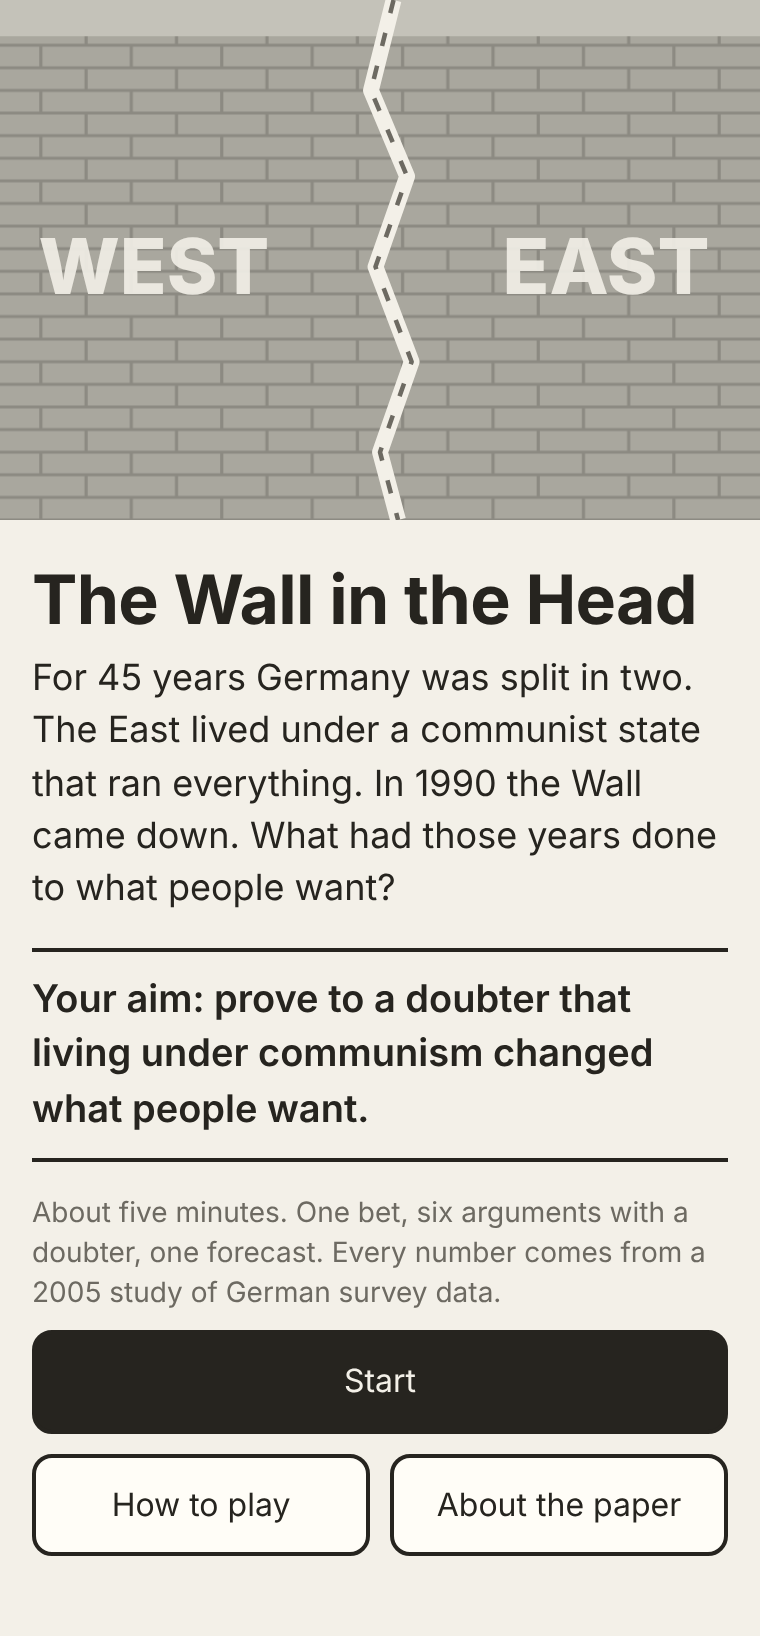
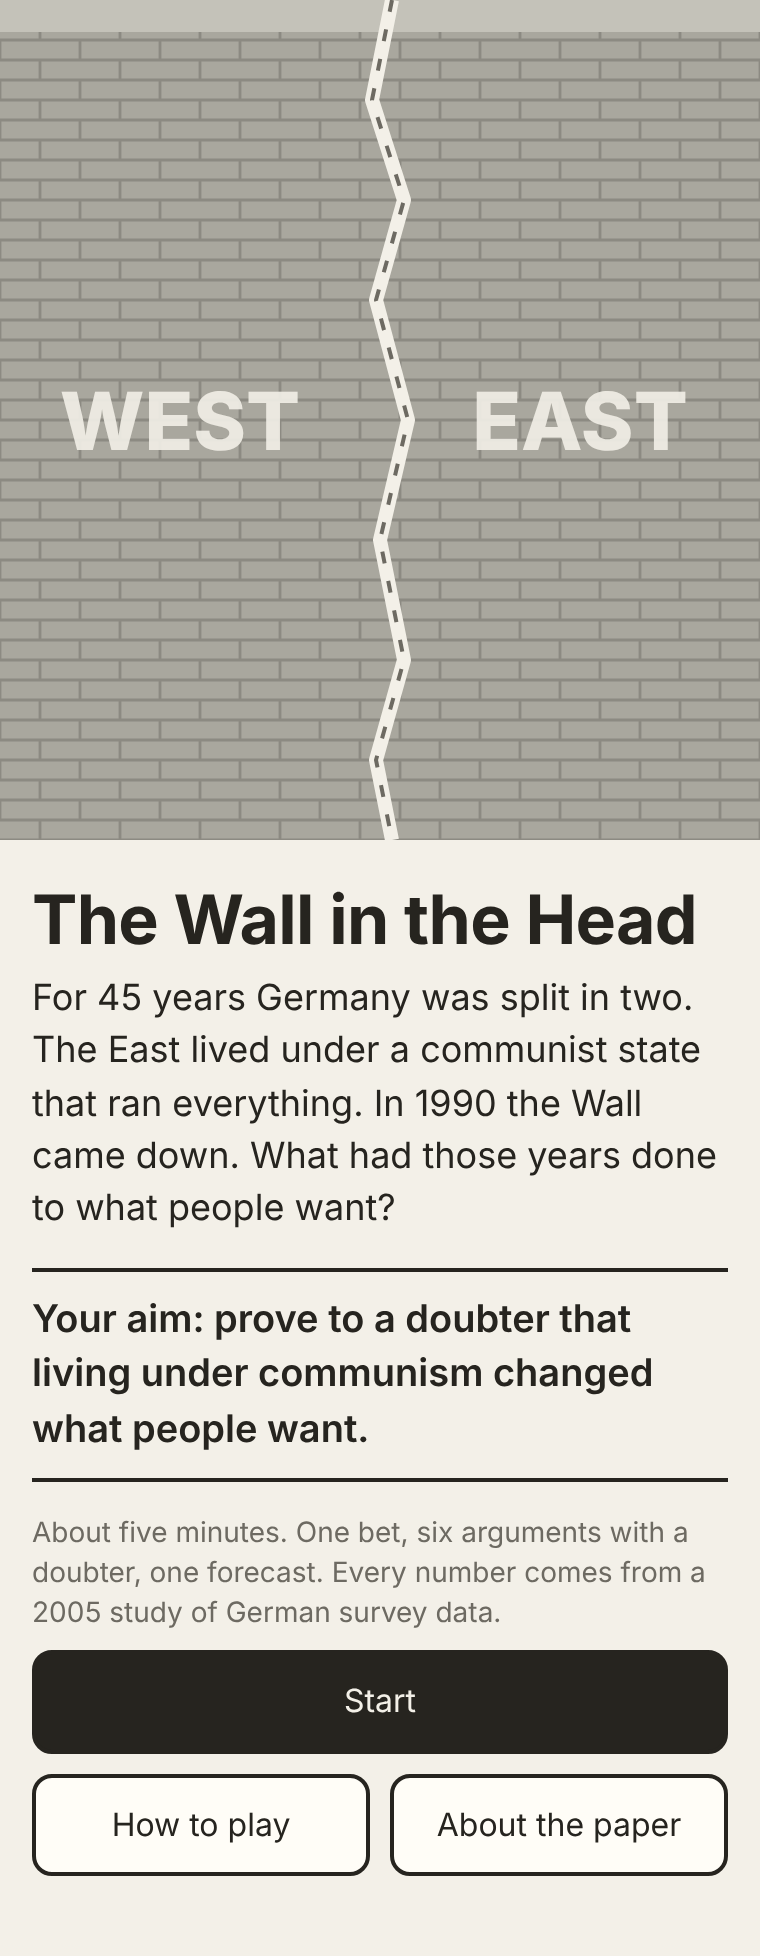
The Wall in the Head: taller start-screen wall
Claude-Session: https://claude.ai/code/session_018niUhvwvFNKjF7UTj7qTmS

diff --git a/lenin/template.html b/lenin/template.html
@@ -12,7 +12,7 @@
   .screen { display:none; max-width:560px; margin:0 auto; padding:0 16px 40px; }
   .screen.on { display:block; }
   .wall { display:block; width:100%; height:44px; margin:0 0 6px; }
-  .bigwall { display:block; width:calc(100% + 32px); margin:0 -16px; height:260px; }
+  .bigwall { display:block; width:calc(100% + 32px); margin:0 -16px; height:420px; }
   h1 { font-size:34px; line-height:1.1; margin:22px 0 6px; letter-spacing:-.01em; }
   h2 { font-size:13px; letter-spacing:.14em; text-transform:uppercase; color:var(--dim); margin:18px 0 6px; font-weight:600; }
   p { margin:8px 0; }
@@ -101,12 +101,12 @@
 
 <!-- START -->
 <section class="screen on" id="s-start">
-  <svg class="bigwall" viewBox="0 0 400 230" preserveAspectRatio="xMidYMid slice" aria-hidden="true">
-    <rect x="0" y="12" width="400" height="218" fill="url(#bricks)"/><rect x="0" y="0" width="400" height="16" rx="4" fill="#c4c2b9"/>
-    <path d="M206 0 L196 40 L212 78 L198 118 L214 160 L200 200 L208 230" stroke="#f3f0e8" stroke-width="7" fill="none" stroke-linejoin="round"/>
-    <path d="M206 0 L196 40 L212 78 L198 118 L214 160 L200 200 L208 230" stroke="#6d6a62" stroke-width="2" fill="none" stroke-linejoin="round" stroke-dasharray="6 9"/>
-    <text x="100" y="130" font-size="34" font-weight="800" fill="#f3f0e8" text-anchor="middle" opacity=".9">WEST</text>
-    <text x="300" y="130" font-size="34" font-weight="800" fill="#f3f0e8" text-anchor="middle" opacity=".9">EAST</text>
+  <svg class="bigwall" viewBox="0 0 400 420" preserveAspectRatio="xMidYMid slice" aria-hidden="true">
+    <rect x="0" y="12" width="400" height="408" fill="url(#bricks)"/><rect x="0" y="0" width="400" height="16" rx="4" fill="#c4c2b9"/>
+    <path d="M206 0 L196 50 L212 100 L198 150 L214 210 L200 270 L212 330 L198 380 L206 420" stroke="#f3f0e8" stroke-width="7" fill="none" stroke-linejoin="round"/>
+    <path d="M206 0 L196 50 L212 100 L198 150 L214 210 L200 270 L212 330 L198 380 L206 420" stroke="#6d6a62" stroke-width="2" fill="none" stroke-linejoin="round" stroke-dasharray="6 9"/>
+    <text x="100" y="225" font-size="40" font-weight="800" fill="#f3f0e8" text-anchor="middle" opacity=".9">WEST</text>
+    <text x="300" y="225" font-size="40" font-weight="800" fill="#f3f0e8" text-anchor="middle" opacity=".9">EAST</text>
   </svg>
   <h1>The Wall in the Head</h1>
   <p class="lede">For 45 years Germany was split in two. The East lived under a communist state that ran everything. In 1990 the Wall came down. What had those years done to what people want?</p>

diff --git a/lenin/the-wall-in-the-head.html b/lenin/the-wall-in-the-head.html
@@ -12,7 +12,7 @@
   .screen { display:none; max-width:560px; margin:0 auto; padding:0 16px 40px; }
   .screen.on { display:block; }
   .wall { display:block; width:100%; height:44px; margin:0 0 6px; }
-  .bigwall { display:block; width:calc(100% + 32px); margin:0 -16px; height:260px; }
+  .bigwall { display:block; width:calc(100% + 32px); margin:0 -16px; height:420px; }
   h1 { font-size:34px; line-height:1.1; margin:22px 0 6px; letter-spacing:-.01em; }
   h2 { font-size:13px; letter-spacing:.14em; text-transform:uppercase; color:var(--dim); margin:18px 0 6px; font-weight:600; }
   p { margin:8px 0; }
@@ -101,12 +101,12 @@
 
 <!-- START -->
 <section class="screen on" id="s-start">
-  <svg class="bigwall" viewBox="0 0 400 230" preserveAspectRatio="xMidYMid slice" aria-hidden="true">
-    <rect x="0" y="12" width="400" height="218" fill="url(#bricks)"/><rect x="0" y="0" width="400" height="16" rx="4" fill="#c4c2b9"/>
-    <path d="M206 0 L196 40 L212 78 L198 118 L214 160 L200 200 L208 230" stroke="#f3f0e8" stroke-width="7" fill="none" stroke-linejoin="round"/>
-    <path d="M206 0 L196 40 L212 78 L198 118 L214 160 L200 200 L208 230" stroke="#6d6a62" stroke-width="2" fill="none" stroke-linejoin="round" stroke-dasharray="6 9"/>
-    <text x="100" y="130" font-size="34" font-weight="800" fill="#f3f0e8" text-anchor="middle" opacity=".9">WEST</text>
-    <text x="300" y="130" font-size="34" font-weight="800" fill="#f3f0e8" text-anchor="middle" opacity=".9">EAST</text>
+  <svg class="bigwall" viewBox="0 0 400 420" preserveAspectRatio="xMidYMid slice" aria-hidden="true">
+    <rect x="0" y="12" width="400" height="408" fill="url(#bricks)"/><rect x="0" y="0" width="400" height="16" rx="4" fill="#c4c2b9"/>
+    <path d="M206 0 L196 50 L212 100 L198 150 L214 210 L200 270 L212 330 L198 380 L206 420" stroke="#f3f0e8" stroke-width="7" fill="none" stroke-linejoin="round"/>
+    <path d="M206 0 L196 50 L212 100 L198 150 L214 210 L200 270 L212 330 L198 380 L206 420" stroke="#6d6a62" stroke-width="2" fill="none" stroke-linejoin="round" stroke-dasharray="6 9"/>
+    <text x="100" y="225" font-size="40" font-weight="800" fill="#f3f0e8" text-anchor="middle" opacity=".9">WEST</text>
+    <text x="300" y="225" font-size="40" font-weight="800" fill="#f3f0e8" text-anchor="middle" opacity=".9">EAST</text>
   </svg>
   <h1>The Wall in the Head</h1>
   <p class="lede">For 45 years Germany was split in two. The East lived under a communist state that ran everything. In 1990 the Wall came down. What had those years done to what people want?</p>
